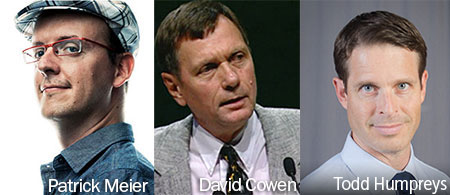
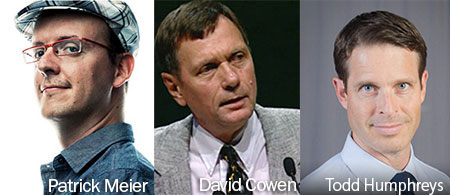
fixing humphreys keynote

Changed region(s): [[0.7156, 0.8923, 0.9956, 1.0]]

diff --git a/content/markdown/2015-gis-forum.md b/content/markdown/2015-gis-forum.md
@@ -21,7 +21,7 @@ abstract: Save the date for the Texas GIS Forum, the state's premier conference 
   <img class="pull-right" src="{{m.link('static/images/texas-gis-forum/2015/keynote2.jpg')}}">The Forum has made a name for itself by bringing top-tier speakers to keynote the conference. In addition to those at the top of the GIS field, we have hosted astronauts, TV personalities, reknowned historians, and more.
 </p>
 <p class="lead-forum">
-  This year continues that record of exciting thinkers with Digital Humanitarian, <a href="#keynote-meier">Patrick Meier</a>, UCGIS Fellow, <a href="#keynote-cowen')}}">David Cowen</a>, and Aerospace Engineer, <a href="#keynote-humphries">Todd Humpreys</a>.
+  This year continues that record of exciting thinkers with Digital Humanitarian, <a href="#keynote-meier">Patrick Meier</a>, UCGIS Fellow, <a href="#keynote-cowen')}}">David Cowen</a>, and Aerospace Engineer, <a href="#keynote-humphreys">Todd Humphreys</a>.
 </p>
 
 <div class="container agenda-full">
@@ -372,15 +372,15 @@ abstract: Save the date for the Texas GIS Forum, the state's premier conference 
     4:00 - 5:00 p.m.
   </div>
   <div class="col-sm-9 col-md-10">
-     <h3 id="keynote-humphries"><small>Keynote Presentation</small><br>Todd Humpreys, Aerospace Engineer, UT Austin</h3>
-    <p><img class="pull-right img-circle keynote-portrait" src="{{ m.link('static/images/texas-gis-forum/2015/humpreys_head.jpg')}}">  Todd E. Humphreys is an assistant professor in the department of Aerospace
+     <h3 id="keynote-humphreys"><small>Keynote Presentation</small><br>Todd Humphreys, Aerospace Engineer, UT Austin</h3>
+    <p><img class="pull-right img-circle keynote-portrait" src="{{ m.link('static/images/texas-gis-forum/2015/humphreys_head.jpg')}}">  Todd E. Humphreys is an assistant professor in the department of Aerospace
 Engineering and Engineering Mechanics at the University of Texas at Austin,
 and Director of the UT Radionavigation Laboratory. He specializes in the
 application of optimal detection and estimation techniques to problems in
 satellite navigation, autonomous systems, and signal processing.  His recent
 focus has been on secure perception for autonomous systems, including
 navigation, timing, and collision avoidance, and on centimeter-accurate
-location for the mass market. </p>
+location for the mass market.</p>
   </div>
 </div>
 
